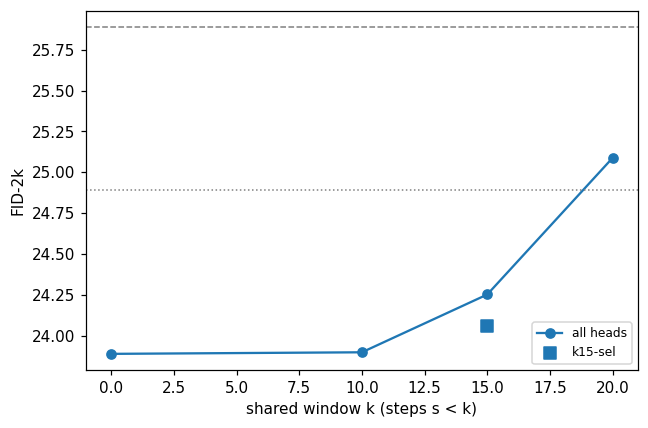
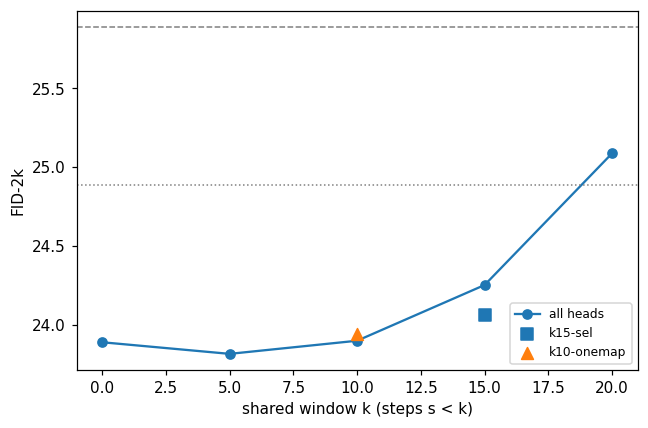
hb 2026-10-25T11:23:33Z

diff --git a/results/attn_share/gate2.md b/results/attn_share/gate2.md
@@ -4,20 +4,25 @@ Generated by `scripts/make_attn_gate2.py` from `results/attn_share/eval/gate2_*.
 
 FP DiT-XL/2 256, cfg 1.5, DDIM-50, seeds 0–1999 for FID-2k (vs ADM reference stats); FP FID-2k anchor **23.89** (`results/stage2/fid_anchors.json`, same seeds). Maps: Gate 1 mean maps from the 32 calibration images, cond and uncond separately, fp16. Secondary (information only): rel. latent MSE vs FP and ResNet-50 top-1 class change on seeds 0–511; IS from torchvision Inception-v3 (not comparable to published IS).
 
-| arm | definition | FID-2k | ΔFID vs FP | IS | rel. latent MSE (mean / median) | class changed | GPU-h |
-| --- | --- | ---: | ---: | ---: | ---: | ---: | ---: |
-| k5 | s < 5, all heads | pending | — | — | — | — | — |
-| k10 | s < 10, all heads | 23.90 | +0.01 | 85.3 ± 5.1 | 0.0226 / 0.0066 | 6.4% | 0.32 |
-| k15 | s < 15, all heads | 24.25 | +0.36 | 83.1 ± 4.5 | 0.0625 / 0.0298 | 11.3% | 0.32 |
-| k20 | s < 20, all heads | 25.09 | +1.20 | 77.8 ± 4.6 | 0.1324 / 0.0891 | 15.4% | 0.32 |
-| k15-sel | s < 15, heads with Gate 1 within ≥ 0.8 | 24.06 | +0.17 | 84.8 ± 4.9 | 0.0451 / 0.0164 | 8.6% | 0.33 |
-| k10-onemap | s < 10, single map M[·,·,5] | pending | — | — | — | — | — |
-| k10-uniform | control (not in verdict): s < 10, uniform 1/256 maps | pending | — | — | — | — | — |
-| fp | check (not in verdict): patched model, sharing off | pending | — | — | — | — | — |
+ResNet-50 label accuracy (top-1 vs the conditioning label y, seeds 0–511): FP **87.5%** (from `fp_resnet_top1_512.json`, the decoded FP reference latents); Δ vs FP with a paired bootstrap 95% CI.
+
+| arm | definition | FID-2k | ΔFID vs FP | IS | rel. latent MSE (mean / median) | class changed | label acc | Δ acc vs FP | GPU-h |
+| --- | --- | ---: | ---: | ---: | ---: | ---: | ---: | ---: | ---: |
+| k5 | s < 5, all heads | 23.81 | -0.07 | 85.8 ± 4.7 | 0.0070 / 0.0012 | 4.7% | pending | — | 0.32 |
+| k10 | s < 10, all heads | 23.90 | +0.01 | 85.3 ± 5.1 | 0.0226 / 0.0066 | 6.4% | pending | — | 0.32 |
+| k15 | s < 15, all heads | 24.25 | +0.36 | 83.1 ± 4.5 | 0.0625 / 0.0298 | 11.3% | pending | — | 0.32 |
+| k20 | s < 20, all heads | 25.09 | +1.20 | 77.8 ± 4.6 | 0.1324 / 0.0891 | 15.4% | pending | — | 0.32 |
+| k15-sel | s < 15, heads with Gate 1 within ≥ 0.8 | 24.06 | +0.17 | 84.8 ± 4.9 | 0.0451 / 0.0164 | 8.6% | pending | — | 0.33 |
+| k10-onemap | s < 10, single map M[·,·,5] | 23.94 | +0.05 | 85.5 ± 5.5 | 0.0233 / 0.0068 | 6.4% | pending | — | 0.32 |
+| k10-uniform | control (not in verdict): s < 10, uniform 1/256 maps | pending | — | — | — | — | — | — | — |
+| fp | check (not in verdict): patched model, sharing off | pending | — | — | — | — | — | — | — |
 
 Reading of the rule (fixed 2026-10-25T10:12Z in commit aa9b67c, before any Gate 2 arm finished): PASS iff FID(k10) ≤ FP + 1.0 and FID(k15) ≤ FP + 2.0. `k_pass` = largest k ∈ {5, 10, 15, 20} whose FID is within its bar: +1.0 for k ≤ 10 and +2.0 for k ≥ 15 (k20 is held to the k15 bar). STOP if k5 already exceeds +1.0.
 
-**Gate 2: PENDING**
+- ΔFID k10 = +0.01 (≤ +1.0: **True**); ΔFID k15 = +0.36 (≤ +2.0: **True**); ΔFID k5 = -0.07.
+- k_pass = **20**.
+
+**Gate 2: PASS (provisional: the uniform-control FID has not landed)**
 
 Plots: `gate2_fid_vs_k.png`, `gate2_grid.png` (seeds 0–7, rows = arms, matched noise and class).
 
